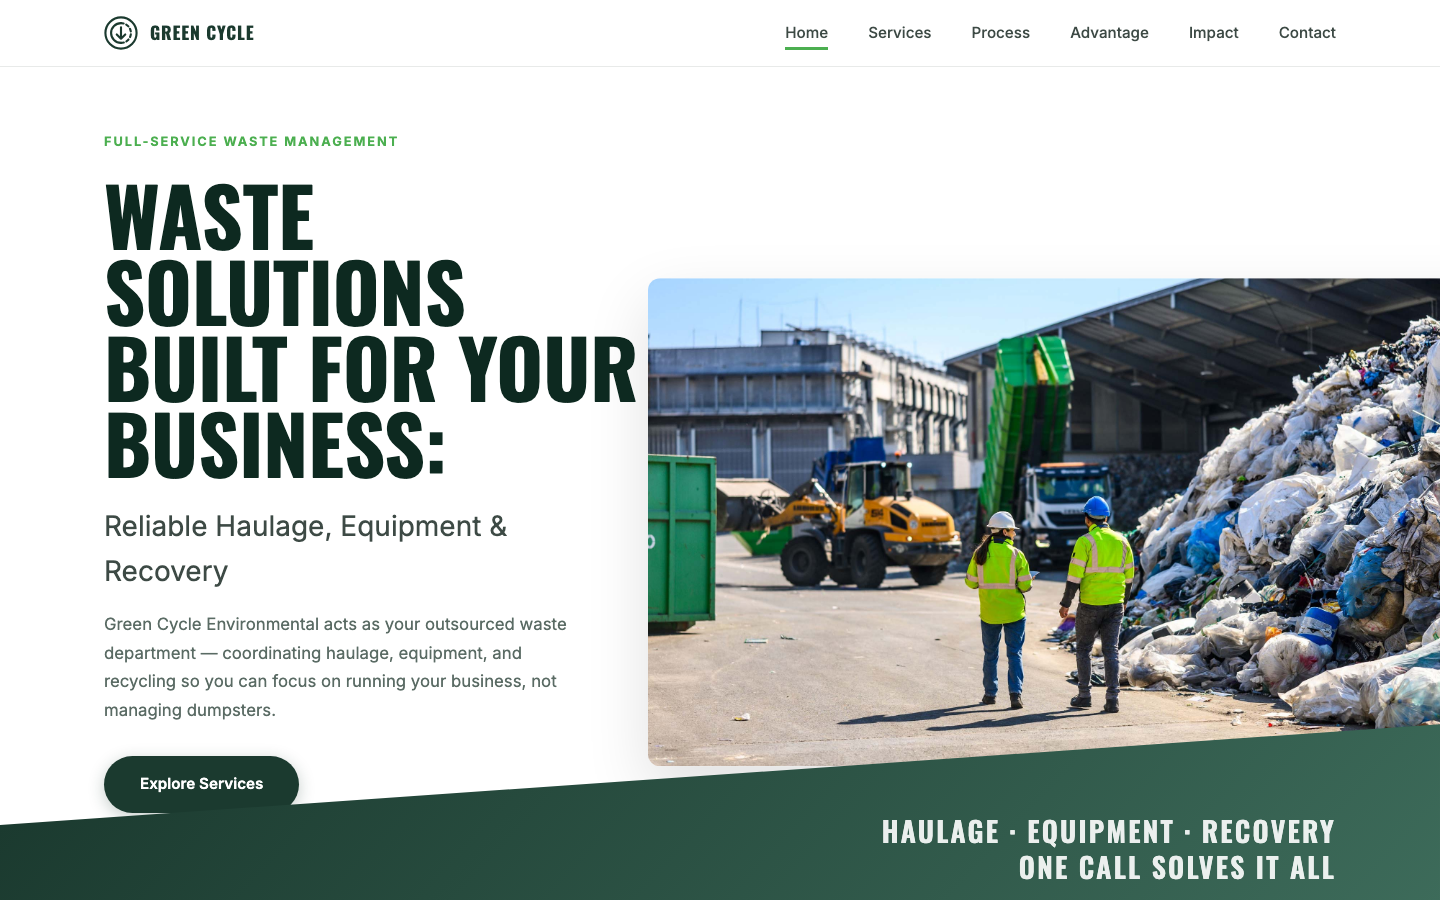
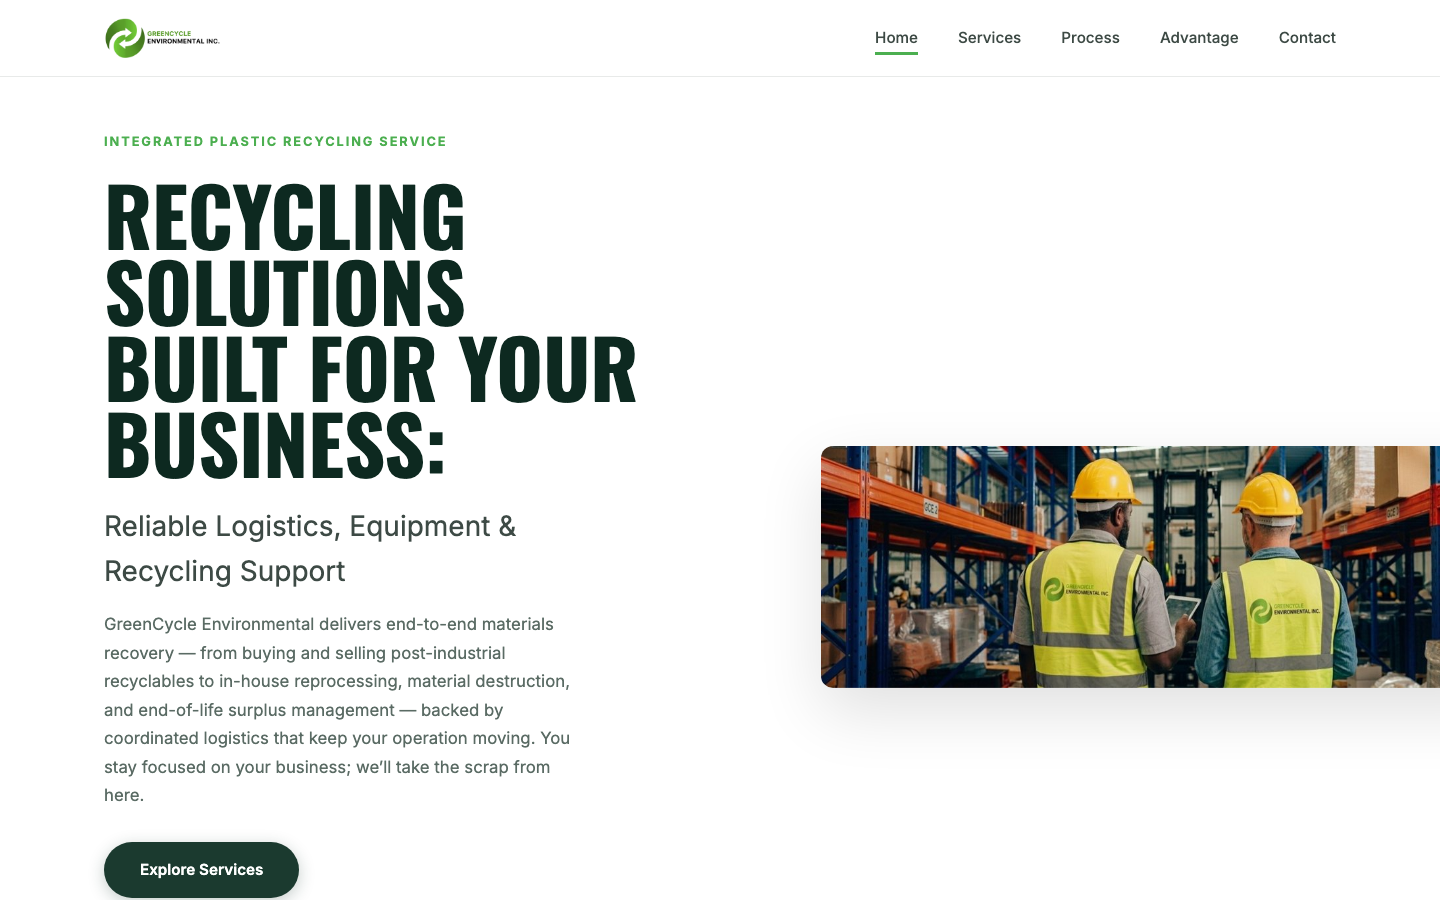
Implement all 23 client-requested website updates
- Replace logo with client-provided version (transparent navbar variant +
  white-text variant for dark footer)
- Swap 6 section images to client-provided photography (optimized to JPEG,
  5.6MB PNG -> 398KB) and remove replaced assets
- Update hero, about, services, operations, logistics, account management,
  audits, size reduction, advantage, CTA, and footer copy per client brief
- Fix pre-existing CTA button bug: ScrollTrigger config bleed between the
  entrance tween and background parallax scrub left the button stuck at
  opacity 0 after scrolling; entrance now uses an explicit trigger

diff --git a/index.html b/index.html
@@ -15,13 +15,7 @@
   <nav class="navbar" id="navbar">
     <div class="nav-container">
       <a href="#" class="logo">
-        <svg class="logo-icon" viewBox="0 0 48 48" fill="none" xmlns="http://www.w3.org/2000/svg" aria-hidden="true">
-          <circle cx="24" cy="24" r="22" stroke="currentColor" stroke-width="3"/>
-          <path d="M24 10C16.268 10 10 16.268 10 24s6.268 14 14 14" stroke="currentColor" stroke-width="3" stroke-linecap="round"/>
-          <path d="M24 38c7.732 0 14-6.268 14-14S31.732 10 24 10" stroke="currentColor" stroke-width="3" stroke-linecap="round" stroke-dasharray="4 4"/>
-          <path d="M24 16v16m-6-6l6 6 6-6" stroke="currentColor" stroke-width="3" stroke-linecap="round" stroke-linejoin="round"/>
-        </svg>
-        <span class="logo-text">GREEN CYCLE ENVIRONMENTAL</span>
+        <img src="assets/images/greencycle-logo.png" alt="GreenCycle Environmental Inc. logo" class="logo-img">
       </a>
       <button class="mobile-menu-toggle" id="mobileMenuToggle" aria-label="Toggle menu" aria-expanded="false">
         <span></span><span></span><span></span>
@@ -39,25 +33,24 @@
   <!-- Hero Section -->
   <header class="hero" id="home">
     <div class="hero-content">
-      <span class="hero-label">Full Waste Management Service</span>
+      <span class="hero-label">Integrated Plastic Recycling Service</span>
       <h1 class="hero-title">
-        <span class="line">WASTE SOLUTIONS</span>
-        <span class="line">BUILT FOR YOUR</span>
-        <span class="line">BUSINESS:</span>
+        <span class="line">Recycling Solutions</span>
+        <span class="line">Built For Your Business:</span>
       </h1>
-      <p class="hero-subtitle">Reliable Logistics, Equipment & Recovery</p>
-      <p class="hero-text">Green Cycle Environmental acts as your outsourced waste department — coordinating logistics, equipment, and recycling so you can focus on running your business, not managing waste.</p>
+      <p class="hero-subtitle">Reliable Logistics, Equipment &amp; Recycling Support</p>
+      <p class="hero-text">GreenCycle Environmental delivers end-to-end materials recovery — from buying and selling post-industrial recyclables to in-house reprocessing, material destruction, and end-of-life surplus management — backed by coordinated logistics that keep your operation moving. You stay focused on your business; we’ll take the scrap from here.</p>
       <a href="#services" class="btn btn-primary">Explore Services</a>
     </div>
 
     <div class="hero-visual" aria-hidden="true">
-      <img src="assets/images/facility-team.jpg" alt="Waste management team walking through a recycling facility" class="hero-image" loading="eager">
+      <img src="assets/images/warehouse-team.jpg" alt="Two GreenCycle Environmental team members in safety vests walking through a warehouse" class="hero-image" loading="eager">
     </div>
 
     <div class="hero-diagonal" aria-hidden="true">
       <div class="diagonal-content">
-        <span>LOGISTICS · EQUIPMENT · RECOVERY</span>
-        <span>ONE CALL SOLVES IT ALL</span>
+        <span>• LOGISTICS · PROCESSING · RECOVERY</span>
+        <span>One Call Solves It All</span>
       </div>
     </div>
   </header>
@@ -72,12 +65,12 @@
             <span>ABOUT</span>
           </div>
           <div class="transparency-content">
-            <h2 class="section-title">YOUR WASTE PARTNER</h2>
-            <p>We simplify waste management for businesses across every industry. From routine collection to complex equipment logistics, Green Cycle Environmental delivers transparent, reliable service that keeps your operations clean and compliant.</p>
-            <p>Think of us as an extension of your team — a single point of contact for logistics, equipment rentals, repairs, recycling, and sustainability reporting.</p>
+            <h2 class="section-title">Your Business Partner in Optimized Material Sustainability</h2>
+            <p>We streamline material management and processing for facilities nationwide. By pairing dedicated logistics with specialized toll work, material destruction, and end-of-life surplus solutions on our in-house equipment lines, GreenCycle Environmental keeps your operations clear, efficient, and running smoothly.</p>
+            <p>Think of us as an extension of your team — your central point of contact for turning post-industrial materials into value, simplifying material flow, and delivering transparent reporting.</p>
           </div>
           <div class="transparency-image">
-            <img src="assets/images/team-planning.jpg" alt="Waste management specialists planning at a recycling facility" loading="lazy">
+            <img src="assets/images/facility-shipping.jpg" alt="GreenCycle Environmental shipping and receiving facility with trucks" loading="lazy">
           </div>
         </div>
       </div>
@@ -91,7 +84,7 @@
             <span class="vertical-text">CYCLE</span>
             <div class="cycle-header-content">
               <span class="section-label">What We Do</span>
-              <h2 class="section-title">FULL-CYCLE WASTE<br>MANAGEMENT</h2>
+              <h2 class="section-title">Integrated Recycling Operations</h2>
             </div>
           </div>
           
@@ -116,26 +109,26 @@
 
             <div class="cycle-points">
               <article class="cycle-point" style="--point-x: 50%; --point-y: 10%;">
-                <h3>Returns & Collection</h3>
-                <p>Scheduled pickups and on-demand collection tailored to your volume and site constraints.</p>
+                <h3>MATERIAL INTAKE &amp; CONSOLIDATION</h3>
+                <p>We coordinate scheduled and on-demand pickups, consolidating challenging, excess, and recoverable materials to fit your volume and site needs.</p>
                 <a href="#process" class="read-more">Read More →</a>
               </article>
               
               <article class="cycle-point" style="--point-x: 82%; --point-y: 38%;">
-                <h3>Distribution & Recovery</h3>
-                <p>Efficient routing and material recovery that cut costs and keep resources in circulation.</p>
+                <h3>SORTING &amp; SEGREGATION</h3>
+                <p>We sort, categorize, and separate materials by type, grade, and condition — using hands-on segregation and practical material knowledge to prepare them for the next step.</p>
                 <a href="#process" class="read-more">Read More →</a>
               </article>
               
               <article class="cycle-point" style="--point-x: 50%; --point-y: 86%;">
-                <h3>Sorting & Categorizing</h3>
-                <p>Smart segregation, waste audits, and reporting to maximize diversion and compliance.</p>
+                <h3>SIZE REDUCTION &amp; PROCESSING</h3>
+                <p>From baling and shredding to grinding, extrusion, and compounding, we process materials in-house to create more consistent, manageable, and reusable feedstock.</p>
                 <a href="#process" class="read-more">Read More →</a>
               </article>
               
               <article class="cycle-point" style="--point-x: 18%; --point-y: 38%;">
-                <h3>Size Reduction &amp; Processing</h3>
-                <p>Shredding, grinding, and compounding that prepare materials for recovery and reuse.</p>
+                <h3>RECOVERY, REUSE &amp; END-OF-LIFE SOLUTIONS</h3>
+                <p>We identify practical recovery and reuse pathways for processed materials. When materials have reached the end of their useful life, we can also coordinate destruction and appropriate disposal, with certificates of destruction available when required.</p>
                 <a href="#process" class="read-more">Read More →</a>
               </article>
             </div>
@@ -149,19 +142,19 @@
       <div class="container">
         <div class="capability-row">
           <div class="capability-image">
-            <img src="assets/images/logistics-truck.jpg" alt="Waste logistics truck on the road" loading="lazy">
+            <img src="assets/images/truck-transport.jpg" alt="Transport truck hauling materials on the highway" loading="lazy">
           </div>
           <div class="capability-content">
-            <h3 class="capability-title">Waste Logistics</h3>
+            <h3 class="capability-title">Moving Materials Forward</h3>
             <ul class="capability-list">
               <li>
-                <strong>Reliable Collection Management:</strong> Collection routes designed around your operating hours, waste volume, and site access.
+                <strong>Recycling Logistics Simplified:</strong> Routes aligned with your operation hours, recyclable volume, and production schedule.
               </li>
               <li>
-                <strong>On-Demand Service:</strong> Drop trailers, live loading, full truck loads, and light truck loads coordinated through your dedicated account manager.
+                <strong>Flexible On-Demand Service:</strong> Drop trailers, live loading, and full or light truckloads of recyclable, surplus, and end-of-life materials coordinated by our team to match and support your facility’s pace.
               </li>
               <li>
-                <strong>Single-Source Coordination:</strong> One call handles every waste cycle, invoice, and volume issue — no more vendor juggling.
+                <strong>Single-Source Coordination:</strong> One call manages your recycling, destruction, and end-of-life disposition activity, invoicing, and volume updates — no more vendor juggling.
               </li>
             </ul>
           </div>
@@ -169,19 +162,19 @@
 
         <div class="capability-row reverse">
           <div class="capability-image">
-            <img src="assets/images/tech-dashboard.jpg" alt="Account team using waste management tracking software" loading="lazy">
+            <img src="assets/images/office-team.jpg" alt="GreenCycle Environmental account experts reviewing service details together" loading="lazy">
           </div>
           <div class="capability-content">
             <h3 class="capability-title">Technology & Account Management</h3>
             <ul class="capability-list">
               <li>
-                <strong>Dedicated Account Experts:</strong> A single point of contact who learns your sites, coordinates vendors, and resolves issues fast.
+                <strong>Dedicated Account Experts:</strong> A single point of contact who learns your operation, oversees all recycling logistics, and ensures consistent material flow.
               </li>
               <li>
-                <strong>Service Tracking:</strong> Real-time visibility into pickups, equipment status, and diversion metrics across all locations.
+                <strong>Service Tracking:</strong> Your team gets real-time insight into pickups, processing stages, and diversion outcomes, supporting clearer communication and more coordinated day-to-day operations.
               </li>
               <li>
-                <strong>Consolidated Billing:</strong> One clear, predictable invoice instead of juggling multiple logistics bills and surprise fees.
+                <strong>Consolidated Billing:</strong> We streamline your billing into one unified, transparent invoice so you can eliminate administrative clutter and avoid surprise costs.
               </li>
             </ul>
           </div>
@@ -189,19 +182,19 @@
 
         <div class="capability-row">
           <div class="capability-image">
-            <img src="assets/images/waste-audit.jpg" alt="Waste audit specialist reviewing materials at a facility" loading="lazy">
+            <img src="assets/images/recycling-inspection.jpg" alt="GreenCycle Environmental specialist inspecting recycled materials at a facility" loading="lazy">
           </div>
           <div class="capability-content">
             <h3 class="capability-title">Audits, Compliance & Reporting</h3>
             <ul class="capability-list">
               <li>
-                <strong>Waste Audits:</strong> Detailed analysis of your waste streams to identify diversion opportunities and cost savings.
+                <strong>Material Flow Audits:</strong> Detailed analysis of your plastic material streams to identify recovery opportunities, reduce waste, and uncover cost savings.
               </li>
               <li>
-                <strong>Compliance Support:</strong> Stay ahead of regulations with documentation, manifests, and sustainability reporting.
+                <strong>Regulatory &amp; Documentation Support:</strong> Accurate manifests, certificates of destruction, documentation, and reporting to help keep your recycling, destruction, and scrap management programs organized and compliant.
               </li>
               <li>
-                <strong>Diversion Tracking:</strong> Clear metrics that show landfill diversion, recycling rates, and certificates of destruction.
+                <strong>Recovery &amp; Diversion Tracking:</strong> Clear metrics showing material recovery rates, recycling performance, and documented processing outcomes.
               </li>
             </ul>
           </div>
@@ -209,22 +202,29 @@
 
         <div class="capability-row reverse">
           <div class="capability-image">
-            <img src="assets/images/size-reduction.jpg" alt="Waste processing specialist in a recycling facility" loading="lazy">
+            <img src="assets/images/facility-worker.jpg" alt="GreenCycle Environmental worker at a recycling processing facility" loading="lazy">
           </div>
           <div class="capability-content">
-            <h3 class="capability-title">Size Reduction &amp; Processing</h3>
+            <h3 class="capability-title">Size Reduction &amp; Material Processing</h3>
+            <p class="capability-intro">GreenCycle Environmental processes recoverable and end-of-life materials through a combination of sorting, size reduction, consolidation, and plastics processing. Our equipment and hands-on processing capabilities help prepare materials for recycling, reuse, downstream manufacturing, or destruction and appropriate disposal when continued use is no longer practical.</p>
             <ul class="capability-list">
               <li>
-                <strong>Shredding:</strong> Secure destruction and size reduction for paper, plastics, and other recoverable materials.
+                <strong>Baling:</strong> Compacting recyclable materials into dense, manageable bales for efficient storage, transportation, and downstream recycling.
               </li>
               <li>
-                <strong>Grinding:</strong> Processing bulky or rigid waste into uniform material ready for recycling or fuel recovery.
+                <strong>Shredding:</strong> Reducing paper, plastics, and other materials into smaller, more manageable sizes for further processing, recycling, or destruction.
               </li>
               <li>
-                <strong>Heavy Hand Sort Segregation:</strong> Manual separation of mixed loads to maximize commodity recovery and minimize landfill.
+                <strong>Grinding:</strong> Processing rigid, bulky, and oversized plastics into more uniform material suitable for recycling and further processing.
               </li>
               <li>
-                <strong>Compounding:</strong> Blending recovered materials into consistent feedstock for manufacturing and reuse markets.
+                <strong>Extrusion:</strong> Blending and compounding recovered plastics to produce a homogenous reprocessed material for reuse and manufacturing applications.
+              </li>
+              <li>
+                <strong>Heavy Hand Sort Segregation:</strong> Manually separating mixed material streams to recover valuable commodities, remove contaminants, and improve the quality of recyclable materials.
+              </li>
+              <li>
+                <strong>Material Consolidation:</strong> Combining compatible recyclable materials and smaller loads into efficient shipments for transportation, storage, and downstream processing.
               </li>
             </ul>
           </div>
@@ -236,40 +236,41 @@
     <section class="advantage" id="advantage">
       <div class="container">
         <div class="advantage-header">
-          <span class="section-label">Why Green Cycle Environmental</span>
-          <h2 class="section-title">THE GREEN CYCLE ENVIRONMENTAL ADVANTAGE</h2>
-          <p>We act as your outsourced waste department, simplifying service, cutting costs, and keeping your business running smoothly.</p>
+          <span class="section-label">WHY GREENCYCLE ENVIRONMENTAL</span>
+          <h2 class="section-title">MATERIALS IN. POSSIBILITIES OUT.</h2>
+          <p>We serve as your resource recovery partner, simplifying the management of surplus materials and recyclable plastics, reducing handling costs, and helping keep valuable resources in productive use.</p>
+          <p>From segregation and processing to consolidation, recycling, and documented destruction, we provide the expertise and operational support needed to move materials efficiently from excess to opportunity — or to an appropriate end-of-life outcome when reuse is no longer practical.</p>
         </div>
         <div class="advantage-grid">
           <article class="advantage-card">
             <div class="advantage-icon" aria-hidden="true">01</div>
-            <h3>One Call Solves All</h3>
-            <p>One point of contact handles audits, site visits, scheduling, and reporting.</p>
+            <h3>CONNECTED SOLUTIONS</h3>
+            <p>Whether we process materials in-house or work alongside trusted partners, we develop the right path for your material — from sourcing and recovery to toll processing, reprocessing, market solutions, documented destruction, and end-of-life disposition.</p>
           </article>
           <article class="advantage-card">
             <div class="advantage-icon" aria-hidden="true">02</div>
-            <h3>Outsourced Waste Department</h3>
-            <p>We manage vendors, invoices, and compliance so your team can focus on core business priorities.</p>
+            <h3>BUILT FOR COMPLEX MATERIAL STREAMS</h3>
+            <p>We work with businesses to identify, sort, process, and recover plastics and other recyclable or surplus materials that can be difficult to manage through traditional channels.</p>
           </article>
           <article class="advantage-card">
             <div class="advantage-icon" aria-hidden="true">03</div>
-            <h3>Transparent Pricing</h3>
-            <p>Clear, consistent rates and consolidated billing — no hidden fees or surprise invoices.</p>
+            <h3>PRACTICAL, TRANSPARENT SOLUTIONS</h3>
+            <p>Clear communication and straightforward pricing, with solutions built around your material, volume, specifications, and operational needs.</p>
           </article>
           <article class="advantage-card">
             <div class="advantage-icon" aria-hidden="true">04</div>
-            <h3>Dedicated Account Expert</h3>
-            <p>A waste management expert who learns your operation and adapts service as your needs evolve.</p>
+            <h3>MATERIAL EXPERTISE</h3>
+            <p>We take the time to understand your operation, your material streams, and your goals — then develop a recovery approach that makes sense for your business.</p>
           </article>
           <article class="advantage-card">
             <div class="advantage-icon" aria-hidden="true">05</div>
-            <h3>Proactive Support</h3>
-            <p>We monitor service levels and resolve issues before they impact your facility.</p>
+            <h3>PROCESSING CAPABILITIES IN-HOUSE</h3>
+            <p>From heavy hand sorting and segregation to baling, shredding, grinding, extrusion, compounding, and consolidation, we process materials with recovery, reuse, or destruction in mind — based on the most appropriate outcome for each material stream.</p>
           </article>
           <article class="advantage-card">
             <div class="advantage-icon" aria-hidden="true">06</div>
-            <h3>Flexible Contracts</h3>
-            <p>No long-term lock-ins. Solutions that scale up or down with your business.</p>
+            <h3>BUILT TO ADAPT</h3>
+            <p>Material streams change. Your operation changes. Our approach can adapt with you — whether volumes increase, materials change, or new recovery opportunities arise.</p>
           </article>
         </div>
       </div>
@@ -303,9 +304,9 @@
     <section class="cta-section" id="contact">
       <div class="container">
         <div class="cta-content">
-          <h2>READY TO STREAMLINE<br>YOUR WASTE PROGRAM?</h2>
-          <p>Let Green Cycle Environmental manage the details — from logistics to inventory management, compliance and reporting.</p>
-          <a href="mailto:admin@greencycleenviro.com" class="btn btn-light">Request a Free Consultation</a>
+          <h2>YOUR MATERIAL HAS OPTIONS.</h2>
+          <p>GreenCycle Environmental helps businesses find better solutions for challenging and surplus materials — from sourcing and processing to recycling, recovery, reuse, resale, documented destruction, and end-of-life disposal.</p>
+          <a href="mailto:admin@greencycleenviro.com" class="btn btn-light">LET’S MAKE SOMETHING OF IT – TOGETHER</a>
         </div>
       </div>
     </section>
@@ -317,15 +318,9 @@
       <div class="footer-grid">
         <div class="footer-brand">
           <a href="#" class="logo footer-logo">
-            <svg class="logo-icon" viewBox="0 0 48 48" fill="none" xmlns="http://www.w3.org/2000/svg" aria-hidden="true">
-              <circle cx="24" cy="24" r="22" stroke="currentColor" stroke-width="3"/>
-              <path d="M24 10C16.268 10 10 16.268 10 24s6.268 14 14 14" stroke="currentColor" stroke-width="3" stroke-linecap="round"/>
-              <path d="M24 38c7.732 0 14-6.268 14-14S31.732 10 24 10" stroke="currentColor" stroke-width="3" stroke-linecap="round" stroke-dasharray="4 4"/>
-              <path d="M24 16v16m-6-6l6 6 6-6" stroke="currentColor" stroke-width="3" stroke-linecap="round" stroke-linejoin="round"/>
-            </svg>
-            <span class="logo-text">GREEN CYCLE ENVIRONMENTAL</span>
+            <img src="assets/images/greencycle-logo-white.png" alt="GreenCycle Environmental Inc. logo" class="logo-img">
           </a>
-          <p>Full-cycle waste management, recycling, and sustainability services for businesses committed to a cleaner future.</p>
+          <p>Practical recycling, recovery, destruction, and end-of-life material solutions that help businesses turn surplus materials into new opportunities — or manage them appropriately when their useful life has ended.</p>
         </div>
         <div class="footer-links">
           <h4>Services</h4>

diff --git a/js/main.js b/js/main.js
@@ -433,15 +433,17 @@
   });
 
   // CTA section
-  gsap.from('.cta-content > *', {
-    opacity: 0,
-    y: 40,
-    duration: 0.8,
-    stagger: 0.15,
-    ease: 'power2.out',
-    scrollTrigger: {
-      trigger: '.cta-section',
-      start: 'top 70%',
+  // CTA section entrance — explicit trigger + plain tween avoids ScrollTrigger
+  // config-bleed with the parallax scrub below (was leaving the button stuck at
+  // opacity 0 after scrolling past).
+  let ctaPlayed = false;
+  ScrollTrigger.create({
+    trigger: '.cta-section',
+    start: 'top 70%',
+    onEnter: () => {
+      if (ctaPlayed) return;
+      ctaPlayed = true;
+      gsap.fromTo('.cta-content > *', { opacity: 0, y: 40 }, { opacity: 1, y: 0, duration: 0.8, stagger: 0.15, ease: 'power2.out' });
     },
   });
 

diff --git a/css/styles.css b/css/styles.css
@@ -177,6 +177,16 @@ button {
   line-height: 1;
 }
 
+.logo-img {
+  height: 44px;
+  width: auto;
+  display: block;
+}
+
+.footer-logo .logo-img {
+  height: 52px;
+}
+
 /* Navigation */
 .navbar {
   position: fixed;
@@ -609,6 +619,13 @@ button {
   height: 360px;
 }
 
+.capability-intro {
+  color: var(--gray-600);
+  line-height: 1.7;
+  margin-bottom: 1.5rem;
+  max-width: 560px;
+}
+
 .capability-title {
   font-family: var(--font-heading);
   font-size: clamp(1.75rem, 3vw, 2.5rem);
@@ -902,6 +919,14 @@ button {
   .hero-image {
     border-radius: 12px;
     box-shadow: var(--shadow-lg);
+  }
+
+  .logo-img {
+    height: 36px;
+  }
+
+  .footer-logo .logo-img {
+    height: 44px;
   }
 
   .hero-diagonal {
